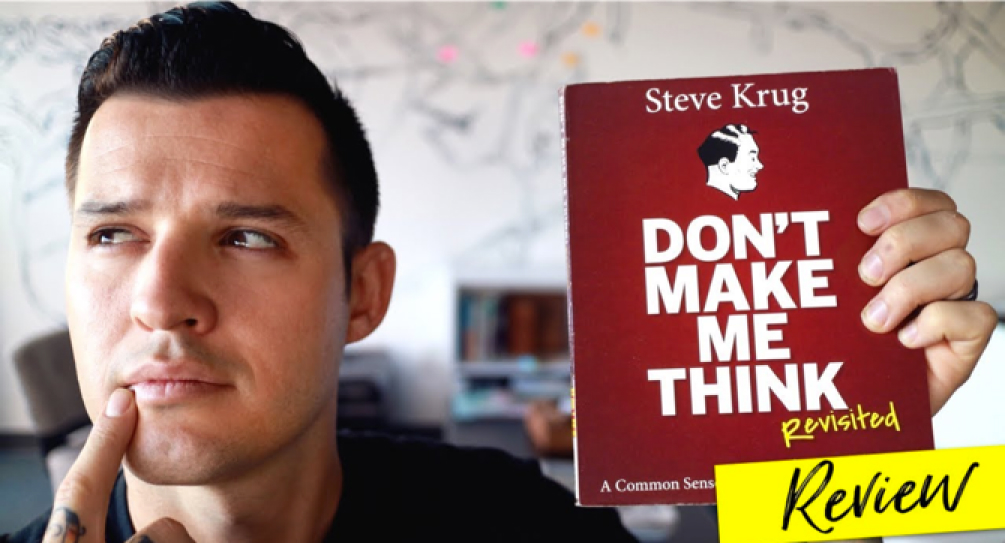
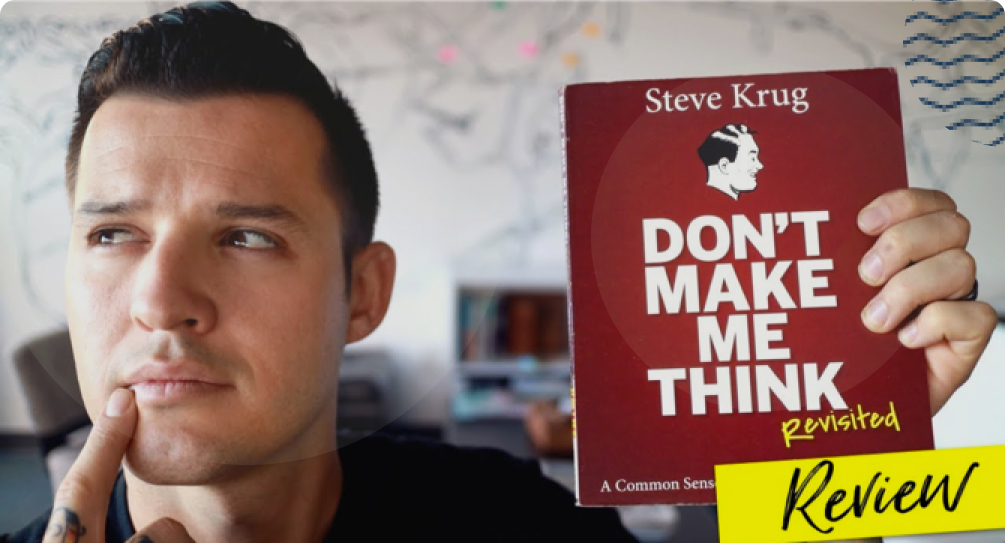
feat: add homepage card details

diff --git a/components/BookCardsSwiper/BookCardsSwiper.tsx b/components/BookCardsSwiper/BookCardsSwiper.tsx
@@ -11,6 +11,7 @@ const StyledBookCardInfo = styled.div`
   display: flex;
   flex-direction: column;
   justify-content: space-between;
+  position: relative;
 `
 
 const StyledBookCard = styled.a<{ index: number; swiperIndex: number }>(
@@ -98,6 +99,13 @@ const StyledWrapper = styled.div`
   }
 `
 
+const StyledForegroundImageWrapper = styled.div`
+  position: absolute;
+  left: -36px;
+  top: -11px;
+  z-index: 1;
+`
+
 type Props = {
   books: BooksApiVolume[]
   isActive?: boolean
@@ -137,7 +145,11 @@ const BookCard = (props: Props) => {
             return (
               <SwiperSlide key={etag}>
                 <Link href={`/book/${id}`} passHref>
-                  <StyledBookCard index={index} swiperIndex={swiperIndex}>
+                  <StyledBookCard
+                    title={title}
+                    index={index}
+                    swiperIndex={swiperIndex}
+                  >
                     <StyledBookCardInfo>
                       <div>
                         <StyledBookTitle>{title}</StyledBookTitle>
@@ -156,6 +168,13 @@ const BookCard = (props: Props) => {
                       </StyledReadNowText>
                     </StyledBookCardInfo>
                     <StyledBookCardInfo>
+                      <StyledForegroundImageWrapper>
+                        <Image
+                          width={59}
+                          height={108}
+                          src="/images/card-foreground.png"
+                        />
+                      </StyledForegroundImageWrapper>
                       <Image
                         width={72}
                         height={111}

diff --git a/components/FeaturedBookCard/FeaturedBookCard.tsx b/components/FeaturedBookCard/FeaturedBookCard.tsx
@@ -8,6 +8,7 @@ import { ChapterIcon } from "../Icons"
 
 const StyledBookCard = styled.a`
   display: flex;
+  position: relative;
   padding: 10px 20px 10px 20px;
   margin-top: 20px;
   max-width: 331px;
@@ -68,6 +69,22 @@ const StyledBookChapterText = styled.span`
   }
 `
 
+const StyledForegroundImageWrapper = styled.div`
+  position: absolute;
+  height: 100px;
+  width: 100%;
+  top: 0;
+  right: 0;
+  overflow: hidden;
+`
+
+const StyledForegroundImage = styled.div`
+  position: absolute;
+  top: -20px;
+  right: -33px;
+  z-index: 1;
+`
+
 type Props = {
   book: BooksApiVolume
 }
@@ -88,7 +105,7 @@ const FeaturedBookCard = (props: Props) => {
 
   return (
     <Link href={`/book/${id}`} passHref>
-      <StyledBookCard>
+      <StyledBookCard title={title}>
         <StyledBookCardInfo>
           <StyledBookImageWrapper>
             <Image
@@ -112,6 +129,15 @@ const FeaturedBookCard = (props: Props) => {
             Chapter&nbsp;<span>2</span>&nbsp;From 9
           </StyledBookChapterText>
         </StyledBookCardInfo>
+        <StyledForegroundImageWrapper>
+          <StyledForegroundImage>
+            <Image
+              width={142}
+              height={157}
+              src="/images/featured-card-foreground.png"
+            />
+          </StyledForegroundImage>
+        </StyledForegroundImageWrapper>
       </StyledBookCard>
     </Link>
   )

diff --git a/pages/index.tsx b/pages/index.tsx
@@ -112,10 +112,6 @@ const StyledSearchInputWrapper = styled.div`
 `
 
 const StyledReviewImgWrapper = styled.div`
-  background-image: url(/images/book-background-oval.png);
-  background-position: 0 100%;
-  background-repeat: no-repeat;
-
   img {
     border-radius: 5px 5px 0px 0px;
     z-index: 0;
